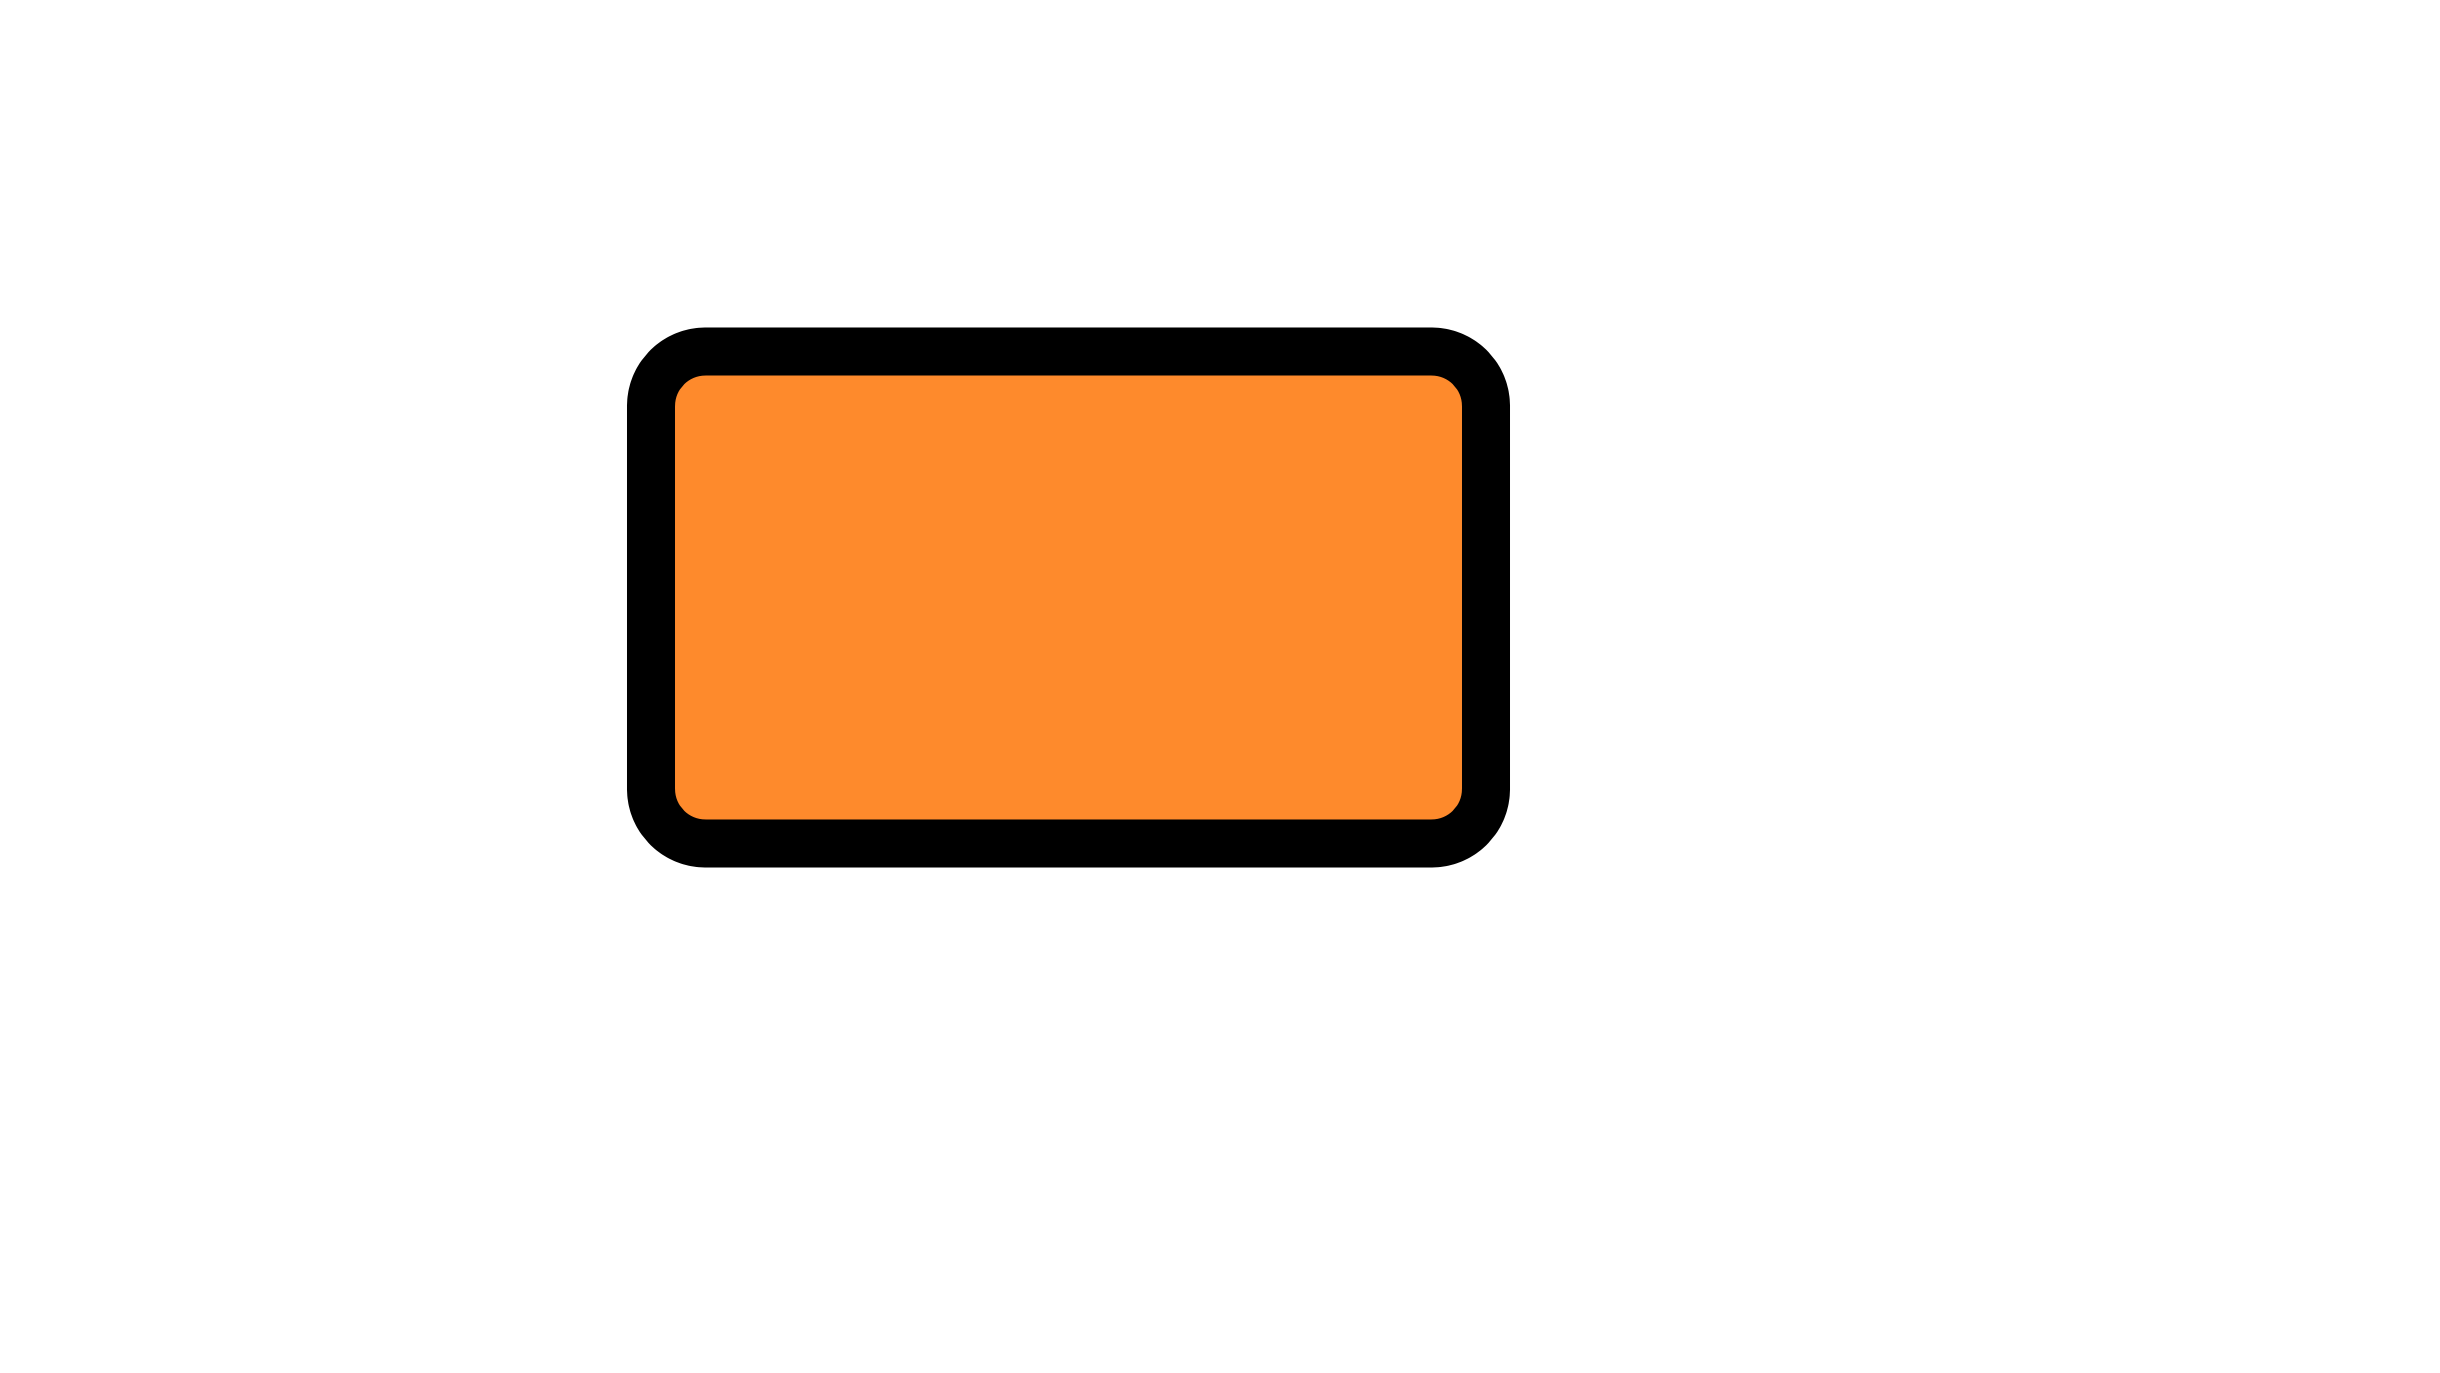
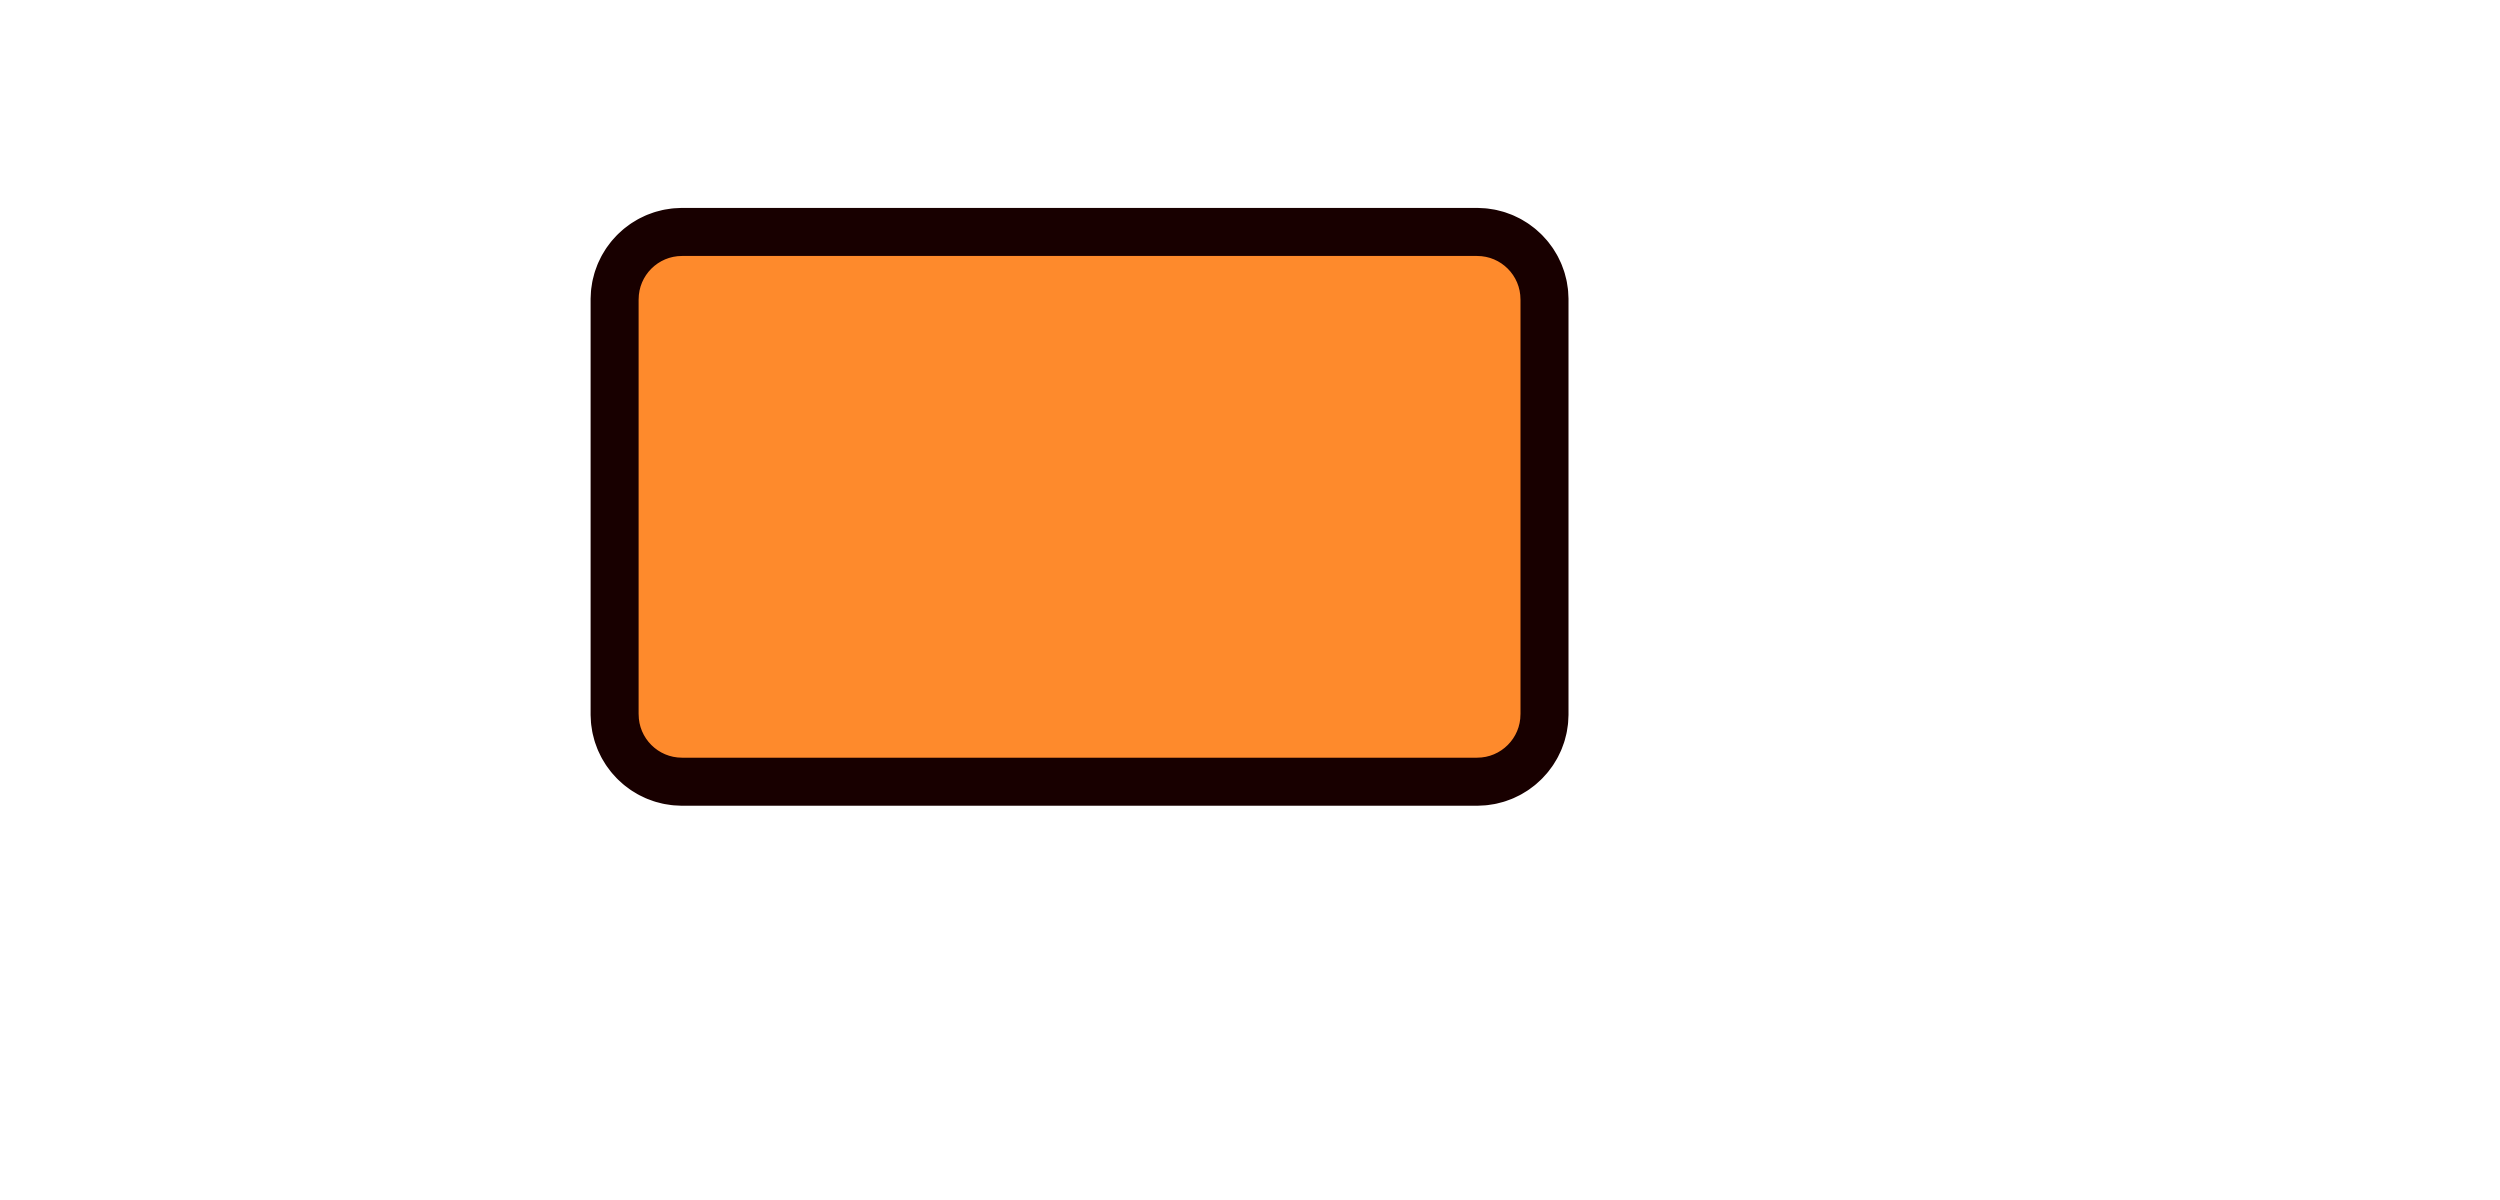
Update resources and script

Changed region(s): [[0.218, 0.1542, 0.6541, 0.6783]]

diff --git a/frame.py b/frame.py
@@ -14,9 +14,9 @@ img3 = Image.open(sys.argv[1])
 img1.paste(img2, (0, 0), mask=img2)
 
 # Resize the screenshot
-img3 = img3.resize((707, 367), Image.Resampling.LANCZOS)
+img3 = img3.resize((784, 416), Image.Resampling.LANCZOS)
 
 # Paste the screenshot over the frame with screen background
-img1.paste(img3, (715, 413))
+img1.paste(img3, (683, 294))
 
 img1.save('framed_' + sys.argv[1])

diff --git a/README.md b/README.md
@@ -11,4 +11,4 @@ python3 frame.py filename.png
 
 Will output `framed_filename.png` file.
 
-<img src="images/framed_Screenshot.png" width="500px"> 
+<img src="images/framed_Screenshot.png" width="500px">
